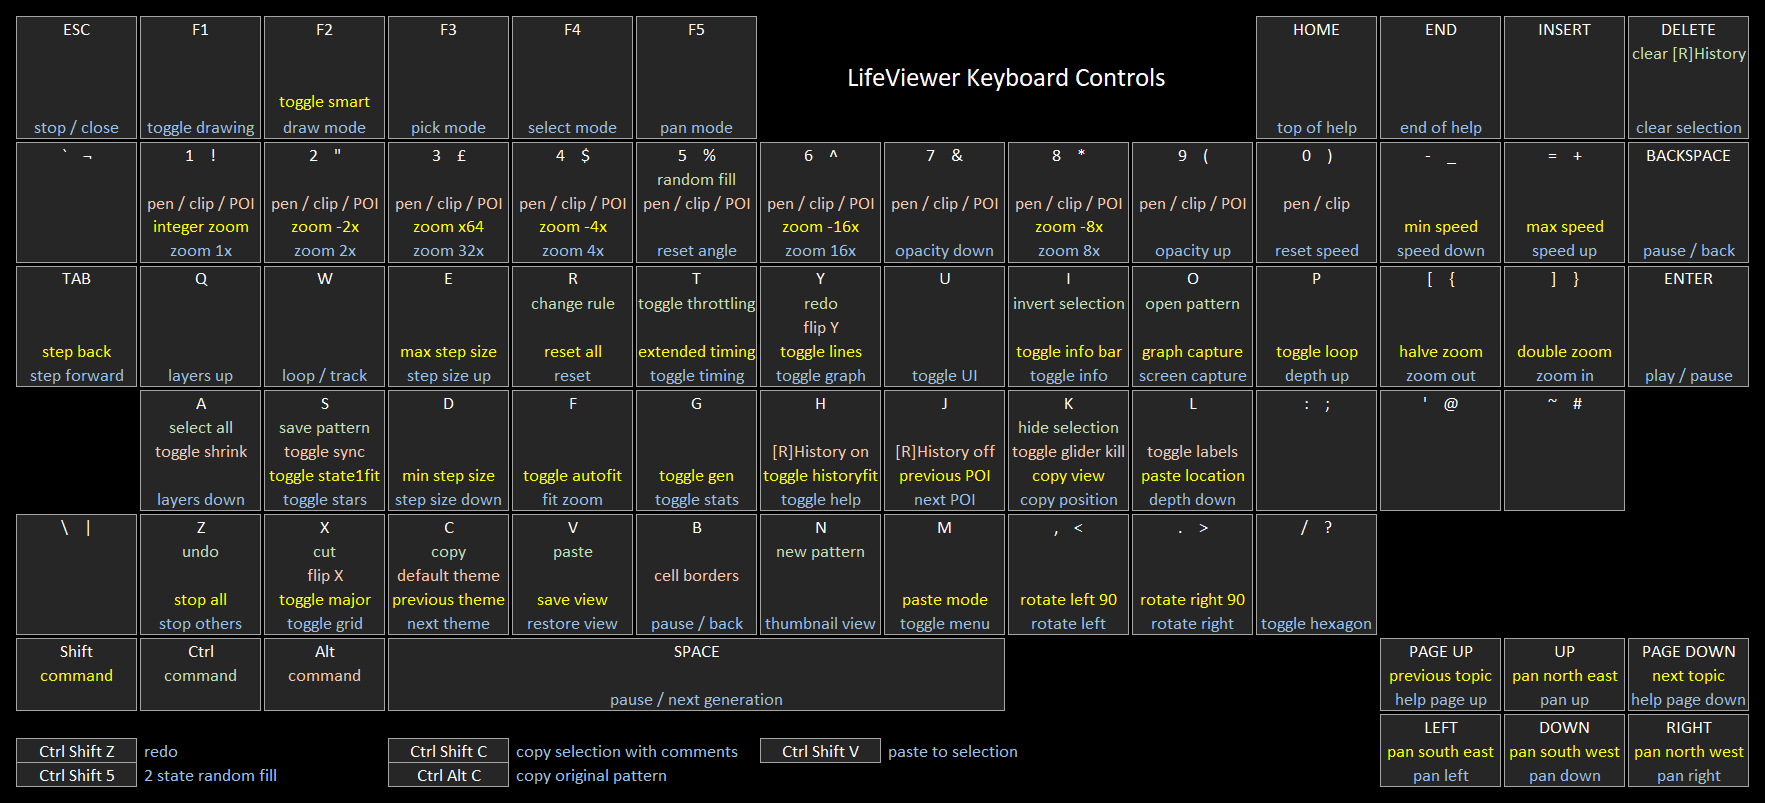
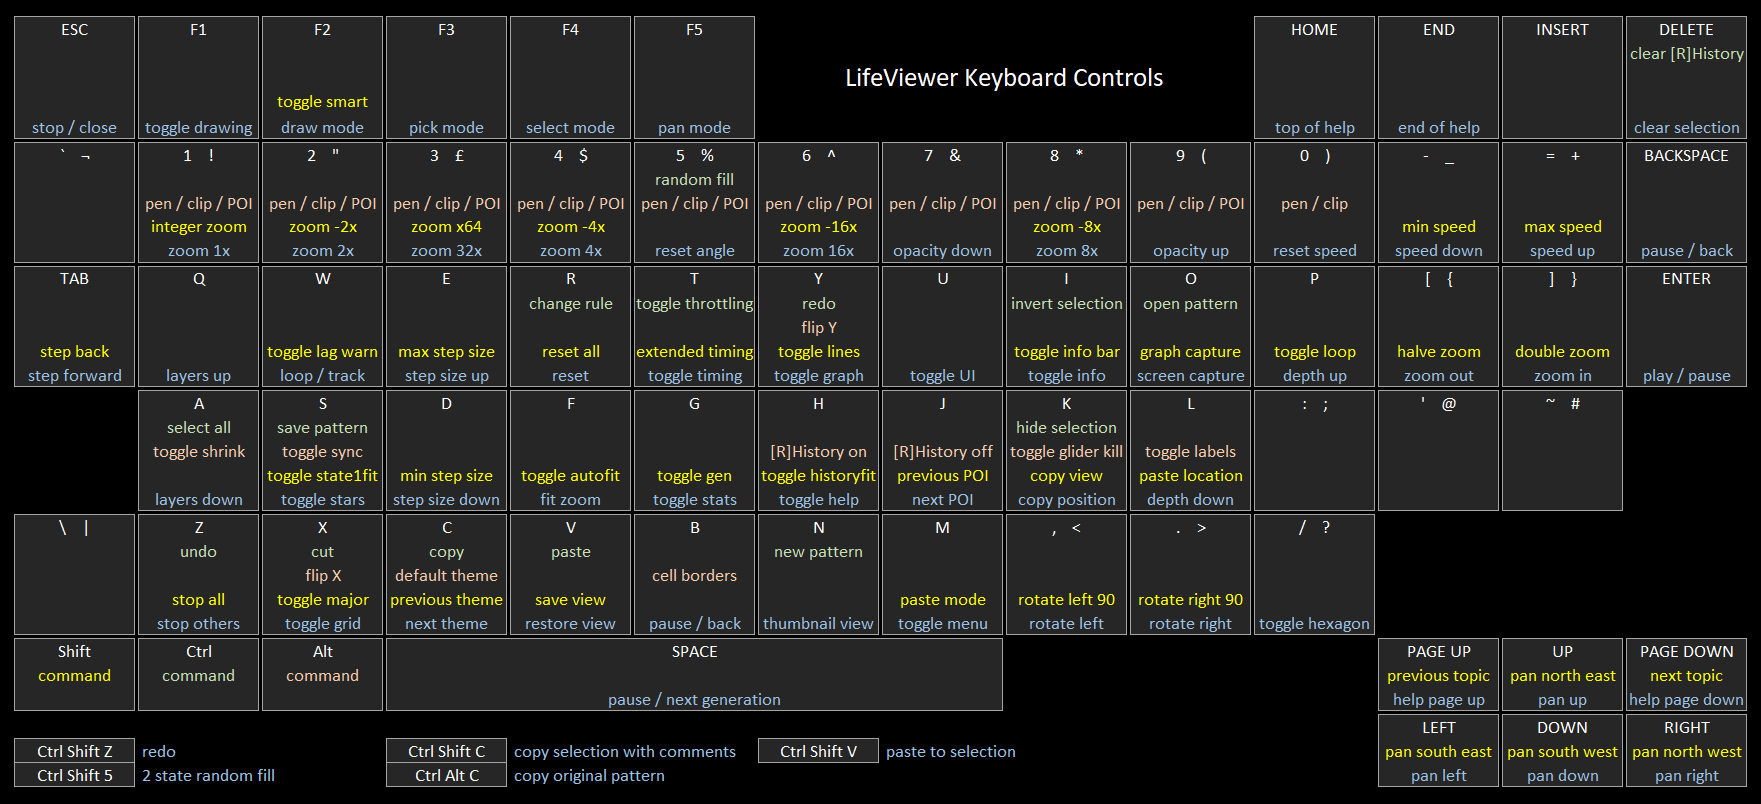
PerfWarn button and more aliases

diff --git a/js/lifeview.js b/js/lifeview.js
@@ -236,7 +236,7 @@
 		/** @const {string} */ versionName : "LifeViewer",
 
 		// build version
-		/** @const {number} */ versionBuild : 382,
+		/** @const {number} */ versionBuild : 383,
 
 		// author
 		/** @const {string} */ versionAuthor : "Chris Rowett",
@@ -657,7 +657,7 @@
 		/** @type {number} */ this.currentEditIndex = 0;
 
 		// step samples
-		this.stepSamples = [];
+		/** @type {Array<number>} */ this.stepSamples = [];
 		/** @type {number} */ this.stepIndex = 0;
 
 		// list of transformations
@@ -986,8 +986,8 @@
 		// window title string
 		/** @type{string} */ this.windowTitle = "";
 
-		// flag if performance warning is disabled
-		/** @type {boolean} */ this.noPerfWarning = false;
+		// flag if performance warning is enabled
+		/** @type {boolean} */ this.perfWarning = true;
 
 		// flag if history is disabled
 		/** @type {boolean} */ this.noHistory = false;
@@ -1264,6 +1264,9 @@
 
 		// throttle toggle
 		this.throttleToggle = null;
+
+		// show lag toggle
+		this.showLagToggle = null;
 
 		// theme selections
 		this.themeSelections = [];
@@ -4334,7 +4337,7 @@
 				me.floatCounter -= (stepsToTake - stepsTaken);
 
 				// if not enough steps taken then display actual number
-				if ((stepsTaken < stepsToTake) && (me.engine.counter !== me.stopGeneration)) {
+				if ((stepsTaken < stepsToTake) && (me.engine.counter !== me.stopGeneration) && me.perfWarning) {
 					me.updateStepLabel(stepsTaken);
 				} else {
 					me.clearStepSamples();
@@ -4525,9 +4528,12 @@
 			me.deathsValue.toolTip = "deaths " + me.engine.deaths;
 		}
 
-		// update gps and step control background based on performance unless disabled
-		if (!me.noPerfWarning) {
+		// update gps and step control background based on performance if enabled
+		if (me.perfWarning) {
 			me.updateControlBackgrounds(deltaTime, tooSlow, manualStepping, me);
+		} else {
+			me.generationRange.bgCol = me.fitButton.bgCol;
+			me.stepRange.bgCol = me.fitButton.bgCol;
 		}
 
 		// clear next step flags
@@ -4753,6 +4759,7 @@
 		this.depthItem.deleted = shown;
 		this.themeButton.deleted = shown;
 		this.throttleToggle.deleted = shown;
+		this.showLagToggle.deleted = shown;
 		this.angleItem.deleted = shown;
 		this.layersItem.deleted = shown;
 		this.autoHideButton.deleted = shown;
@@ -9045,6 +9052,15 @@
 		return [me.pauseWhileDrawing];
 	};
 
+	// show lag toggle
+	View.prototype.toggleShowLag = function(newValue, change, me) {
+		if (change) {
+			me.perfWarning = newValue[0];
+		}
+
+		return [me.perfWarning];
+	};
+
 	// throttle toggle
 	View.prototype.toggleThrottle = function(newValue, change, me) {
 		if (change) {
@@ -10248,12 +10264,16 @@
 		this.navToggle.toolTip = ["toggle settings menu"];
 
 		// add the colour theme button
-		this.themeButton = this.viewMenu.addButtonItem(this.themePressed, Menu.south, -65, -90, 120, 40, "Theme");
+		this.themeButton = this.viewMenu.addButtonItem(this.themePressed, Menu.south, 135, -90, 120, 40, "Theme");
 		this.themeButton.toolTip = "choose colour theme";
 
 		// add the throttle toggle button
-		this.throttleToggle = this.viewMenu.addListItem(this.toggleThrottle, Menu.south, 65, -90, 120, 40, ["Throttle"], [this.canBailOut], Menu.multi);
+		this.throttleToggle = this.viewMenu.addListItem(this.toggleThrottle, Menu.south, -135, -90, 120, 40, ["Throttle"], [this.canBailOut], Menu.multi);
 		this.throttleToggle.toolTip = ["toggle playback throttling"];
+
+		// add the show lag toggle button
+		this.showLagToggle = this.viewMenu.addListItem(this.toggleShowLag, Menu.south, 0, -90, 120, 40, ["PerfWarn"], [this.perfWarning], Menu.multi);
+		this.showLagToggle.toolTip = ["toggle performance warning display"];
 
 		// add the theme selections
 		lastX = -1;
@@ -10438,7 +10458,7 @@
 		this.libraryToggle.addItemsToToggleMenu([this.clipboardList], []);
 
 		// add items to the main toggle menu
-		this.navToggle.addItemsToToggleMenu([this.layersItem, this.depthItem, this.angleItem, this.themeButton, this.throttleToggle, this.shrinkButton, this.closeButton, this.autoHideButton, this.hexCellButton, this.bordersButton, this.labelButton, this.killButton, this.graphButton, this.fpsButton, this.timingDetailButton, this.infoBarButton, this.starsButton, this.historyFitButton, this.majorButton, this.prevUniverseButton, this.nextUniverseButton, this.rHistoryButton], []); 
+		this.navToggle.addItemsToToggleMenu([this.layersItem, this.depthItem, this.angleItem, this.themeButton, this.throttleToggle, this.showLagToggle, this.shrinkButton, this.closeButton, this.autoHideButton, this.hexCellButton, this.bordersButton, this.labelButton, this.killButton, this.graphButton, this.fpsButton, this.timingDetailButton, this.infoBarButton, this.starsButton, this.historyFitButton, this.majorButton, this.prevUniverseButton, this.nextUniverseButton, this.rHistoryButton], []); 
 
 		// add statistics items to the toggle
 		this.genToggle.addItemsToToggleMenu([this.popLabel, this.popValue, this.birthsLabel, this.birthsValue, this.deathsLabel, this.deathsValue, this.timeLabel, this.elapsedTimeLabel, this.ruleLabel], []);
@@ -11446,6 +11466,7 @@
 		this.depthItem.deleted = false;
 		this.themeButton.deleted = false;
 		this.throttleToggle.deleted = false;
+		this.showLagToggle.deleted = false;
 		this.viewMenu.deleted = false;
 		this.progressBar.deleted = false;
 		this.undoButton.deleted = false;
@@ -11503,7 +11524,7 @@
 		this.noHistory = false;
 
 		// enable performance warnings
-		this.noPerfWarning = false;
+		this.perfWarning = true;
 
 		// disable custom theme
 		this.customTheme = false;
@@ -11845,6 +11866,9 @@
 				this.ruleLabel.toolTip += " alias " + this.patternAliasName;
 			}
 		}
+
+		// update performance warning
+		this.showLagToggle.current = this.toggleShowLag([this.perfWarning], true, this);
 
 		// create the colour index
 		this.engine.createColourIndex();

diff --git a/js/keys.js b/js/keys.js
@@ -368,68 +368,73 @@
 
 			// w for toggle waypoint/track/loop mode
 			case 87:
-				// check if waypoints defined
-				if (me.waypointsDefined) {
-					// toggle waypoint mode
-					me.waypointsDisabled = !me.waypointsDisabled;
-
-					// check if loop defined
-					if (me.loopGeneration !== -1) {
-						// set loop mode to waypoint mode
-						me.loopDisabled = me.waypointsDisabled;
-
-						// display notification
-						me.menuManager.notification.notify("Loop and Waypoints " + (me.waypointsDisabled ? "Off" : "On"), 15, 40, 15, true);
-					} else {
-						// display notification
-						me.menuManager.notification.notify("Waypoints " + (me.waypointsDisabled ? "Off" : "On"), 15, 40, 15, true);
-					}
-
-					// check if waypoints have just been enabled
-					if (!me.waypointsDisabled) {
-						// check if at the last waypoint
-						if (!me.waypointManager.atLast(me.elapsedTime)) {
-							// find the closest waypoint to now
-							me.waypointManager.findClosestWaypoint(me.engine.counter);
-
-							// set the elapsed time
-							me.elapsedTime = me.waypointManager.elapsedTimeTo(me.engine.counter);
-
-							// create a temporary waypoint
-							me.elapsedTime = me.waypointManager.createTemporaryPosition(me.engine.width / 2 - me.engine.xOff, me.engine.height / 2 - me.engine.yOff, me.engine.zoom, me.engine.angle, me.engine.layers, me.engine.layerDepth * ViewConstants.depthScale, me.engine.colourTheme, me.genSpeed, me.gensPerStep, me.engine.counter, me.elapsedTime);
-
-							// clear manual change flag
-							me.manualChange = false;
-						}
-					} else {
-						// waypoints just disabled so remove any waypoint message
-						me.menuManager.notification.clear(false, false);
-					}
+				if (event.shiftKey) {
+					me.showLagToggle.current = me.toggleShowLag([!me.perfWarning], true, me);
+					me.menuManager.notification.notify("Performance Warning " + (me.perfWarning ? "On" : "Off"), 15, 40, 15, true);
 				} else {
-					// check if track defined
-					if (me.trackDefined) {
-						// toggle track mode
-						me.trackDisabled = !me.trackDisabled;
+					// check if waypoints defined
+					if (me.waypointsDefined) {
+						// toggle waypoint mode
+						me.waypointsDisabled = !me.waypointsDisabled;
 
 						// check if loop defined
 						if (me.loopGeneration !== -1) {
 							// set loop mode to waypoint mode
-							me.loopDisabled = me.trackDisabled;
+							me.loopDisabled = me.waypointsDisabled;
 
 							// display notification
-							me.menuManager.notification.notify("Loop and Track " + (me.trackDisabled ? "Off" : "On"), 15, 40, 15, true);
+							me.menuManager.notification.notify("Loop and Waypoints " + (me.waypointsDisabled ? "Off" : "On"), 15, 40, 15, true);
 						} else {
 							// display notification
-							me.menuManager.notification.notify("Track " + (me.trackDisabled ? "Off" : "On"), 15, 40, 15, true);
+							me.menuManager.notification.notify("Waypoints " + (me.waypointsDisabled ? "Off" : "On"), 15, 40, 15, true);
 						}
 
-						// if track just disabled then add origin to position
-						me.adjustOrigin(me.trackDisabled);
+						// check if waypoints have just been enabled
+						if (!me.waypointsDisabled) {
+							// check if at the last waypoint
+							if (!me.waypointManager.atLast(me.elapsedTime)) {
+								// find the closest waypoint to now
+								me.waypointManager.findClosestWaypoint(me.engine.counter);
+	
+								// set the elapsed time
+								me.elapsedTime = me.waypointManager.elapsedTimeTo(me.engine.counter);
+	
+								// create a temporary waypoint
+								me.elapsedTime = me.waypointManager.createTemporaryPosition(me.engine.width / 2 - me.engine.xOff, me.engine.height / 2 - me.engine.yOff, me.engine.zoom, me.engine.angle, me.engine.layers, me.engine.layerDepth * ViewConstants.depthScale, me.engine.colourTheme, me.genSpeed, me.gensPerStep, me.engine.counter, me.elapsedTime);
+	
+								// clear manual change flag
+								me.manualChange = false;
+							}
+						} else {
+							// waypoints just disabled so remove any waypoint message
+							me.menuManager.notification.clear(false, false);
+						}
 					} else {
-						// check if loop defined
-						if (me.loopGeneration !== -1) {
-							me.loopDisabled = !me.loopDisabled;
-							me.menuManager.notification.notify("Loop " + (me.loopDisabled ? "Off" : "On"), 15, 40, 15, true);
+						// check if track defined
+						if (me.trackDefined) {
+							// toggle track mode
+							me.trackDisabled = !me.trackDisabled;
+	
+							// check if loop defined
+							if (me.loopGeneration !== -1) {
+								// set loop mode to waypoint mode
+								me.loopDisabled = me.trackDisabled;
+	
+								// display notification
+								me.menuManager.notification.notify("Loop and Track " + (me.trackDisabled ? "Off" : "On"), 15, 40, 15, true);
+							} else {
+								// display notification
+								me.menuManager.notification.notify("Track " + (me.trackDisabled ? "Off" : "On"), 15, 40, 15, true);
+							}
+	
+							// if track just disabled then add origin to position
+							me.adjustOrigin(me.trackDisabled);
+						} else {
+							// check if loop defined
+							if (me.loopGeneration !== -1) {
+								me.loopDisabled = !me.loopDisabled;
+								me.menuManager.notification.notify("Loop " + (me.loopDisabled ? "Off" : "On"), 15, 40, 15, true);
+							}
 						}
 					}
 				}

diff --git a/js/alias.js b/js/alias.js
@@ -176,6 +176,7 @@
 		this.aliases.push(["FattyLife", "B3-n4nt5qr6i/S23"]);
 		this.aliases.push(["FishLife", "B3-ekqr4nt5r6i/S02-c3"]);
 		this.aliases.push(["FlashLife", "B2kn3-n4e/S23"]);
+		this.aliases.push(["Flowflakes", "B2-ac3acei4ey6n8/S02-n3-nqy4cekyz5ei6k7e"]);
 		this.aliases.push(["Flying Life", "B3-k5r/S236n7e"]);
 		this.aliases.push(["FogLife", "B35eq7/S2-i34q"]);
 		this.aliases.push(["GlideLife", "B34ek5ak/S2-c34z"]);
@@ -184,6 +185,7 @@
 		this.aliases.push(["Goat Flock", "B2in3/S123a"]);
 		this.aliases.push(["Goats", "B2in3/S123a"]);
 		this.aliases.push(["Goldilocks I", "B2ek3cei4acjr5c8/S02ack3kn4aen"]);
+		this.aliases.push(["Growflakes", "B2-ac3acei4ey6n8/S02-n3-nqy4cekyz5ei6k"]);
 		this.aliases.push(["guntlife", "B35j6a/S2-i34q"]);
 		this.aliases.push(["Half as Interesting", "B2ce3i/S23"]);
 		this.aliases.push(["hassl8life", "B34k5e7c/S23-a4iyz"]);
@@ -222,6 +224,7 @@
 		this.aliases.push(["Particles", "B2ce3i/S1c2cek"]);
 		this.aliases.push(["Pedestrian Goats", "B2in38/S123a"]);
 		this.aliases.push(["Pentadecathlife", "B34e5y6cn8/S234c5e"]);
+		this.aliases.push(["Photics I", "B2ae4c678/S01e4aeqrtw5678"]);
 		this.aliases.push(["Pi-plicator", "B3-ckq/S2-c34ci"]);
 		this.aliases.push(["PiLife", "B37e/S23"]);
 		this.aliases.push(["plasma1", "B012-in3-cky4ar5cjnr6ae/S05aijnr6n"]);
@@ -233,6 +236,7 @@
 		this.aliases.push(["quadraticlife", "B34j/S23"]);
 		this.aliases.push(["Quasilinear Collisions", "B2-ak3-jnqr/S15678"]);
 		this.aliases.push(["Rakelife", "B3aij/S2-i3ajnr4arz56-a7e"]);
+		this.aliases.push(["Rainflakes", "B2-ac3aei4ey5n6n8/S02-n3aceir4ceyz5e6k"]);
 		this.aliases.push(["reptlife", "B36-k/S2-i34q"]);
 		this.aliases.push(["Rule X3VI", "B2c3aei4ajnr5acn/S2-ci3-ck4in5jkq6c7c"]);
 		this.aliases.push(["RustyLife", "B34-ai/S24-air5-a"]);

diff --git a/js/help.js b/js/help.js
@@ -695,10 +695,13 @@
 		if (!view.multiStateView) {
 			y = this.renderHelpLine(view, "G", "toggle generation statistics", ctx, x, y, height, helpLine);
 			y = this.renderHelpLine(view, "Shift G", "toggle generation display mode", ctx, x, y, height, helpLine);
-			y = this.renderHelpLine(view, "Y", "toggle population graph", ctx, x, y, height, helpLine);
-			y = this.renderHelpLine(view, "Shift Y", "toggle graph lines", ctx, x, y, height, helpLine);
-			y = this.renderHelpLine(view, "7", "decrease graph opacity", ctx, x, y, height, helpLine);
-			y = this.renderHelpLine(view, "9", "increase graph opacity", ctx, x, y, height, helpLine);
+			if (!view.graphDisabled) {
+				y = this.renderHelpLine(view, "Y", "toggle population graph", ctx, x, y, height, helpLine);
+				y = this.renderHelpLine(view, "Shift Y", "toggle graph lines", ctx, x, y, height, helpLine);
+				y = this.renderHelpLine(view, "7", "decrease graph opacity", ctx, x, y, height, helpLine);
+				y = this.renderHelpLine(view, "9", "increase graph opacity", ctx, x, y, height, helpLine);
+			}
+			y = this.renderHelpLine(view, "Shift W", "toggle performance warning", ctx, x, y, height, helpLine);
 		}
 		y = this.renderHelpLine(view, "/", "toggle hexagons for hex view", ctx, x, y, height, helpLine);
 		y = this.renderHelpLine(view, "T", "toggle timing information", ctx, x, y, height, helpLine);

diff --git a/js/parser.js b/js/parser.js
@@ -2453,7 +2453,7 @@
 
 						// no performance warning
 						case Keywords.noPerfWarningWord:
-							view.noPerfWarning = true;
+							view.perfWarning = false;
 
 							itemValid = true;
 							break;
